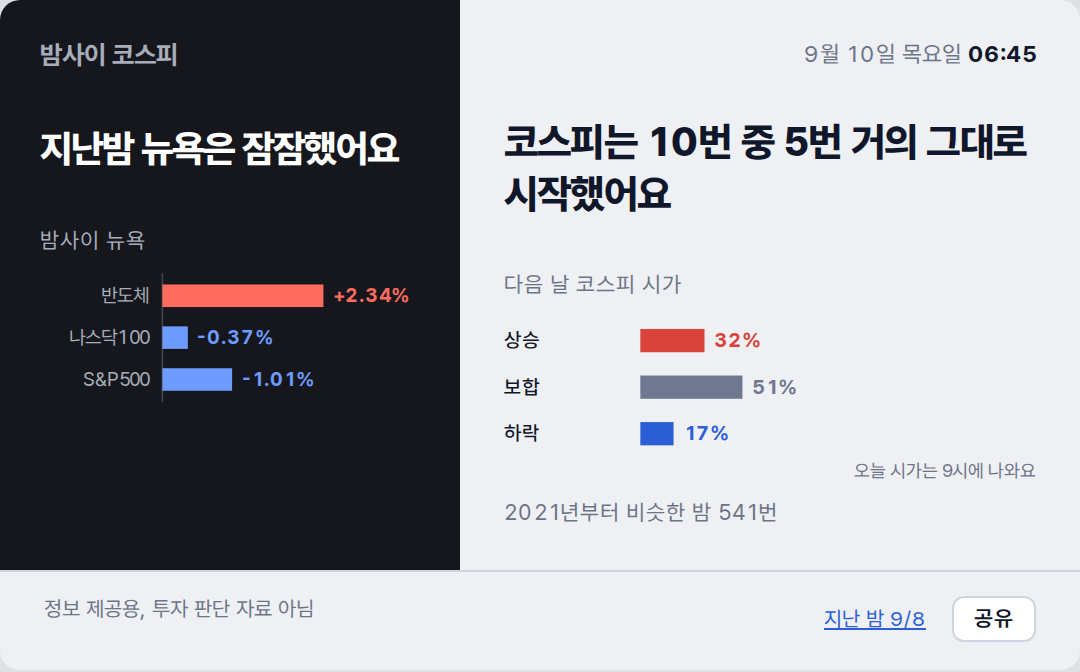
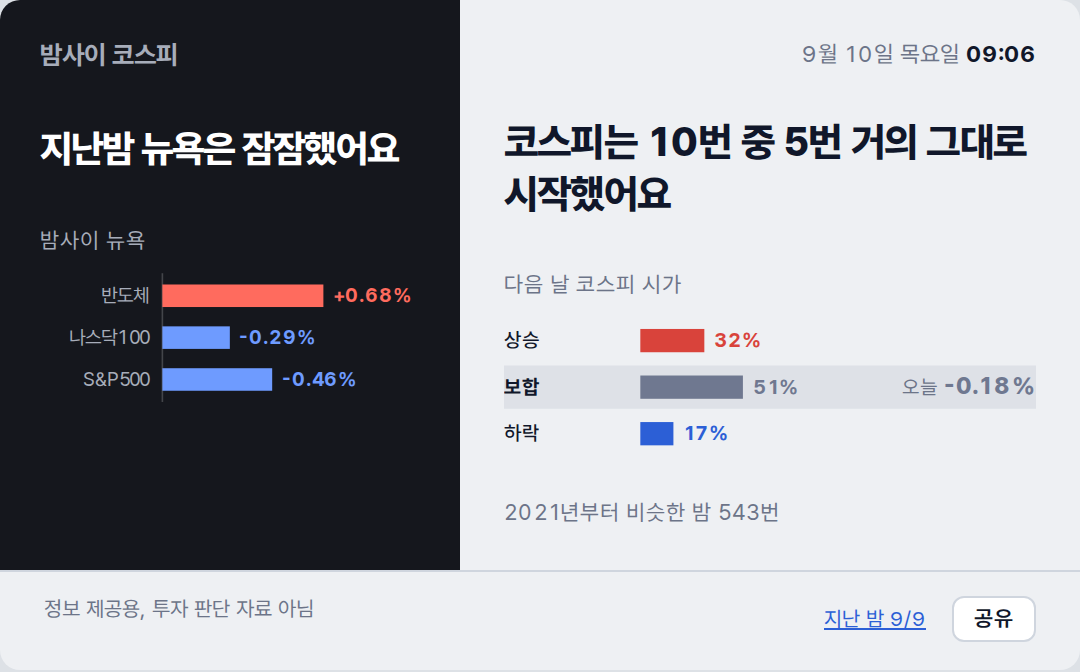
deploy: 83a756d47b61b8f4ea4d92fd2b1f456b338bf138

diff --git a/2026-09-10/index.html b/2026-09-10/index.html
@@ -30,27 +30,28 @@ footer a{color:#2C5FD6}
 <line x1="76" y1="2" x2="76" y2="82" stroke="var(--rule)" stroke-width="1"/>
 <text x="68" y="20" text-anchor="end" fill="var(--muted)">반도체</text>
 <rect x="76" y="9" width="100.0" height="14" fill="var(--up)"/>
-<text x="182.0" y="20" fill="var(--up)" font-weight="700">+2.34%</text>
+<text x="182.0" y="20" fill="var(--up)" font-weight="700">+0.68%</text>
 <text x="68" y="46" text-anchor="end" fill="var(--muted)">나스닥100</text>
-<rect x="76" y="35" width="15.8" height="14" fill="var(--down)"/>
-<text x="97.8" y="46" fill="var(--down)" font-weight="700">-0.37%</text>
+<rect x="76" y="35" width="41.9" height="14" fill="var(--down)"/>
+<text x="123.9" y="46" fill="var(--down)" font-weight="700">-0.29%</text>
 <text x="68" y="72" text-anchor="end" fill="var(--muted)">S&P500</text>
-<rect x="76" y="61" width="43.3" height="14" fill="var(--down)"/>
-<text x="125.3" y="72" fill="var(--down)" font-weight="700">-1.01%</text>
+<rect x="76" y="61" width="68.2" height="14" fill="var(--down)"/>
+<text x="150.2" y="72" fill="var(--down)" font-weight="700">-0.46%</text>
 </svg></section>
-<section class="day"><p class="stamp">9월 10일 목요일 <b>06:45</b></p><p class="claim">코스피는 10번 중 5번 거의 그대로 시작했어요</p><p class="lab">다음 날 코스피 시가</p><svg viewBox="0 0 320 100" xmlns="http://www.w3.org/2000/svg" font-family="var(--sans)" font-size="12">
+<section class="day"><p class="stamp">9월 10일 목요일 <b>09:06</b></p><p class="claim">코스피는 10번 중 5번 거의 그대로 시작했어요</p><p class="lab">다음 날 코스피 시가</p><svg viewBox="0 0 320 100" xmlns="http://www.w3.org/2000/svg" font-family="var(--sans)" font-size="12">
 <text x="0" y="20" fill="var(--ink)" font-weight="500">상승</text>
-<rect x="82" y="9" width="38.6" height="14" fill="var(--up)"/>
-<text x="126.6" y="20" fill="var(--up)" font-weight="700">32%</text>
-<text x="0" y="48" fill="var(--ink)" font-weight="500">보합</text>
-<rect x="82" y="37" width="61.4" height="14" fill="var(--flat)"/>
-<text x="149.4" y="48" fill="var(--flat)" font-weight="700">51%</text>
+<rect x="82" y="9" width="38.5" height="14" fill="var(--up)"/>
+<text x="126.5" y="20" fill="var(--up)" font-weight="700">32%</text>
+<rect x="0" y="31" width="320" height="26" fill="var(--flat)" opacity=".12"/>
+<text x="0" y="48" fill="var(--ink)" font-weight="700">보합</text>
+<rect x="82" y="37" width="61.7" height="14" fill="var(--flat)"/>
+<text x="149.7" y="48" fill="var(--flat)" font-weight="700">51%</text>
+<text x="320" y="48" text-anchor="end" fill="var(--ink)"><tspan fill="var(--muted)">오늘 </tspan><tspan font-weight="800" font-size="14" fill="var(--flat)">-0.18%</tspan></text>
 <text x="0" y="76" fill="var(--ink)" font-weight="500">하락</text>
-<rect x="82" y="65" width="20.0" height="14" fill="var(--down)"/>
-<text x="108.0" y="76" fill="var(--down)" font-weight="700">17%</text>
-<text x="320" y="98" text-anchor="end" fill="var(--muted)" font-size="11">오늘 시가는 9시에 나와요</text>
-</svg><p class="cap">2021년부터 비슷한 밤 541번</p></section>
-<footer><span>정보 제공용, 투자 판단 자료 아님</span><span style="white-space:nowrap"><a href="../2026-09-08/">지난 밤 9/8</a> <button class="share" type="button">공유</button></span></footer>
+<rect x="82" y="65" width="19.9" height="14" fill="var(--down)"/>
+<text x="107.9" y="76" fill="var(--down)" font-weight="700">17%</text>
+</svg><p class="cap">2021년부터 비슷한 밤 543번</p></section>
+<footer><span>정보 제공용, 투자 판단 자료 아님</span><span style="white-space:nowrap"><a href="../2026-09-09/">지난 밤 9/9</a> <button class="share" type="button">공유</button></span></footer>
 <script>
 /* 공유: Web Share가 있으면 시스템 공유 시트, 없으면 링크 복사. 링크는 이 날짜 페이지(OG 카드 붙음) */
 document.querySelector('.share').addEventListener('click', async function () {

diff --git a/index.html b/index.html
@@ -30,27 +30,28 @@ footer a{color:#2C5FD6}
 <line x1="76" y1="2" x2="76" y2="82" stroke="var(--rule)" stroke-width="1"/>
 <text x="68" y="20" text-anchor="end" fill="var(--muted)">반도체</text>
 <rect x="76" y="9" width="100.0" height="14" fill="var(--up)"/>
-<text x="182.0" y="20" fill="var(--up)" font-weight="700">+2.34%</text>
+<text x="182.0" y="20" fill="var(--up)" font-weight="700">+0.68%</text>
 <text x="68" y="46" text-anchor="end" fill="var(--muted)">나스닥100</text>
-<rect x="76" y="35" width="15.8" height="14" fill="var(--down)"/>
-<text x="97.8" y="46" fill="var(--down)" font-weight="700">-0.37%</text>
+<rect x="76" y="35" width="41.9" height="14" fill="var(--down)"/>
+<text x="123.9" y="46" fill="var(--down)" font-weight="700">-0.29%</text>
 <text x="68" y="72" text-anchor="end" fill="var(--muted)">S&P500</text>
-<rect x="76" y="61" width="43.3" height="14" fill="var(--down)"/>
-<text x="125.3" y="72" fill="var(--down)" font-weight="700">-1.01%</text>
+<rect x="76" y="61" width="68.2" height="14" fill="var(--down)"/>
+<text x="150.2" y="72" fill="var(--down)" font-weight="700">-0.46%</text>
 </svg></section>
-<section class="day"><p class="stamp">9월 10일 목요일 <b>06:45</b></p><p class="claim">코스피는 10번 중 5번 거의 그대로 시작했어요</p><p class="lab">다음 날 코스피 시가</p><svg viewBox="0 0 320 100" xmlns="http://www.w3.org/2000/svg" font-family="var(--sans)" font-size="12">
+<section class="day"><p class="stamp">9월 10일 목요일 <b>09:06</b></p><p class="claim">코스피는 10번 중 5번 거의 그대로 시작했어요</p><p class="lab">다음 날 코스피 시가</p><svg viewBox="0 0 320 100" xmlns="http://www.w3.org/2000/svg" font-family="var(--sans)" font-size="12">
 <text x="0" y="20" fill="var(--ink)" font-weight="500">상승</text>
-<rect x="82" y="9" width="38.6" height="14" fill="var(--up)"/>
-<text x="126.6" y="20" fill="var(--up)" font-weight="700">32%</text>
-<text x="0" y="48" fill="var(--ink)" font-weight="500">보합</text>
-<rect x="82" y="37" width="61.4" height="14" fill="var(--flat)"/>
-<text x="149.4" y="48" fill="var(--flat)" font-weight="700">51%</text>
+<rect x="82" y="9" width="38.5" height="14" fill="var(--up)"/>
+<text x="126.5" y="20" fill="var(--up)" font-weight="700">32%</text>
+<rect x="0" y="31" width="320" height="26" fill="var(--flat)" opacity=".12"/>
+<text x="0" y="48" fill="var(--ink)" font-weight="700">보합</text>
+<rect x="82" y="37" width="61.7" height="14" fill="var(--flat)"/>
+<text x="149.7" y="48" fill="var(--flat)" font-weight="700">51%</text>
+<text x="320" y="48" text-anchor="end" fill="var(--ink)"><tspan fill="var(--muted)">오늘 </tspan><tspan font-weight="800" font-size="14" fill="var(--flat)">-0.18%</tspan></text>
 <text x="0" y="76" fill="var(--ink)" font-weight="500">하락</text>
-<rect x="82" y="65" width="20.0" height="14" fill="var(--down)"/>
-<text x="108.0" y="76" fill="var(--down)" font-weight="700">17%</text>
-<text x="320" y="98" text-anchor="end" fill="var(--muted)" font-size="11">오늘 시가는 9시에 나와요</text>
-</svg><p class="cap">2021년부터 비슷한 밤 541번</p></section>
-<footer><span>정보 제공용, 투자 판단 자료 아님</span><span style="white-space:nowrap"><a href="./2026-09-08/">지난 밤 9/8</a> <button class="share" type="button">공유</button></span></footer>
+<rect x="82" y="65" width="19.9" height="14" fill="var(--down)"/>
+<text x="107.9" y="76" fill="var(--down)" font-weight="700">17%</text>
+</svg><p class="cap">2021년부터 비슷한 밤 543번</p></section>
+<footer><span>정보 제공용, 투자 판단 자료 아님</span><span style="white-space:nowrap"><a href="./2026-09-09/">지난 밤 9/9</a> <button class="share" type="button">공유</button></span></footer>
 <script>
 /* 공유: Web Share가 있으면 시스템 공유 시트, 없으면 링크 복사. 링크는 이 날짜 페이지(OG 카드 붙음) */
 document.querySelector('.share').addEventListener('click', async function () {
